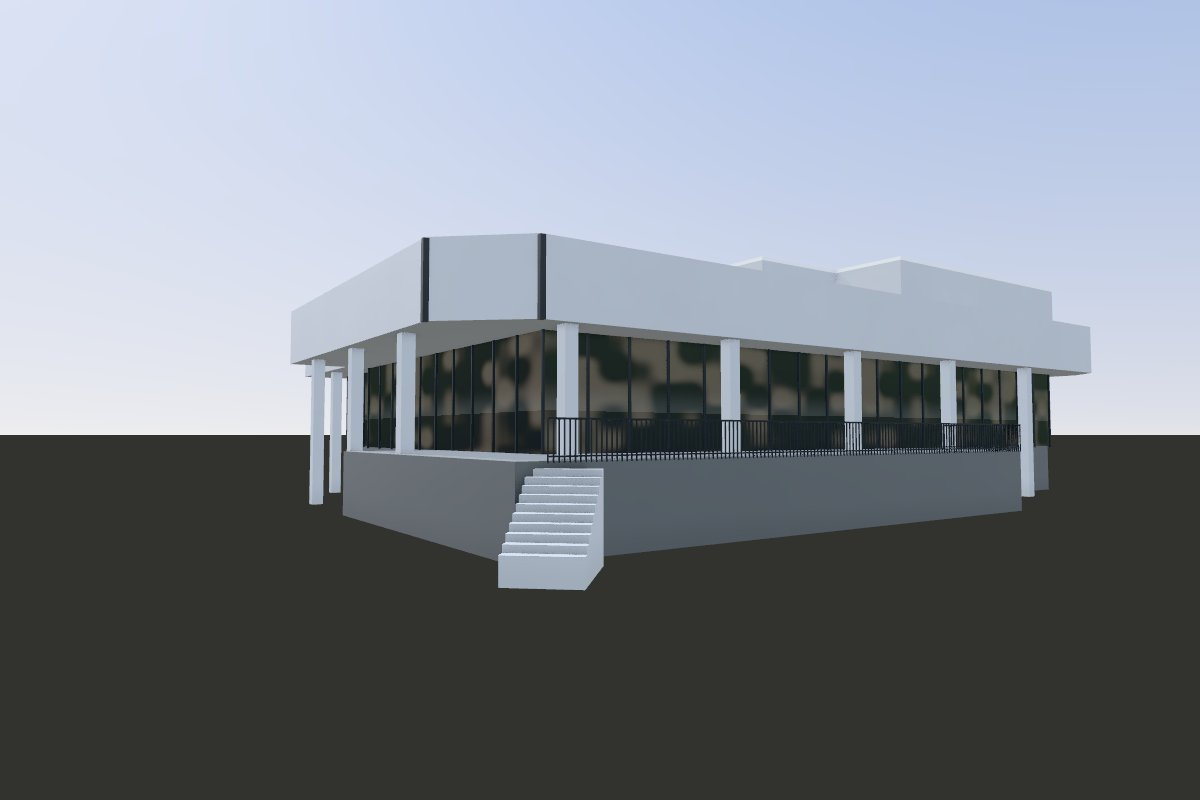
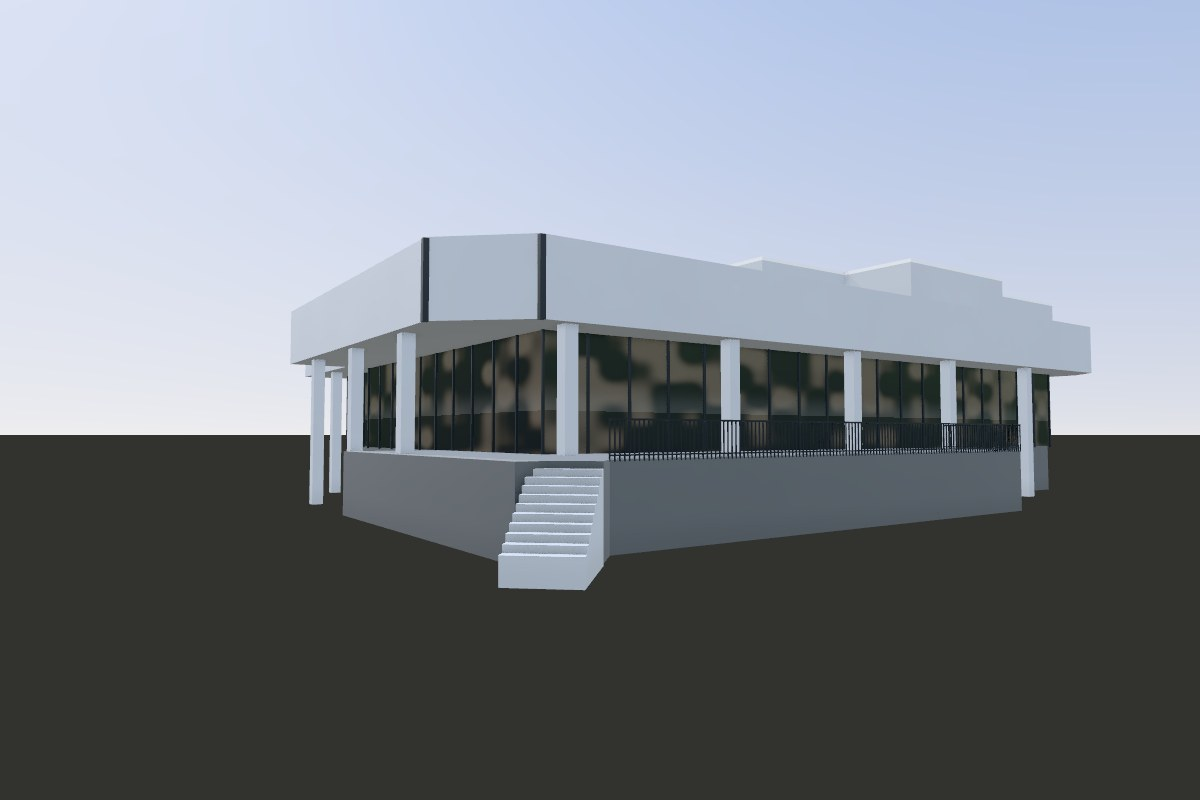
Security (409), review round 1: the roof blocks to the LiDAR, the deck and the steps that meet it, the card's words
- The west box's roof rises toward the north-east, from 51.7 m to 53.84 m,
  as the LiDAR's returns do (it was drawn flat at 53.88 m from p -13.9);
  the east block's south part starts at p 3.75 and its south-east end
  stands at 53.0 m.
- The deck runs out to the flight's last riser, and its railing starts at
  the flight's east side: the flight had moved 1.1 m at step 8 and the
  railing had not, so it ran into the flight's top.
- The card names the chamfer's width and the floor as estimated, and says
  that neither the 2024 LiDAR nor the 2023 aerial shows the deck, its
  railing or the steps: both see the paved court open there. The
  photograph, of October 2024, shows them; they are drawn from it.
- The CONTRACT's step 7 entry has its own numbers again, step 8's the
  door's move; the columns' spacing along the south-west end; the
  thresholds note's directions; the test's comment; SHARED_GROUND's
  comment names 409 and 421W, 4.7 m apart.
- 3,354 triangles, 5 draw calls; silhouette 0.777 in the model's box,
  luma 156 against 159; top view 89% of the cells within 0.5 m. The four
  pictures again.

Claude-Session: https://claude.ai/code/session_01WyPcwFTXkmVC7XB6LWPSiH

diff --git a/landmarks/security-409/parts/common.js b/landmarks/security-409/parts/common.js
@@ -56,7 +56,10 @@ export const ROOF = Y(51.13), PARAPET = { top: Y(51.5), thick: 0.3 };
  * its railing's top 1 m over it (q -15.6 to -16.9 from p -18.2 to 2.0), and a flight of 11 steps from the court
  * (43.4 m, the door's ground) up to the deck, its foot 1.7 m wide, rising along the chamfer's normal: the camera puts
  * the foot's ends at p -21.35, q -17.93 and p -19.84, q -18.66, partly within Architecture - West's outline in the
- * campus map (its north-east edge at p -20.3), so the flight is drawn 1.1 m further along the south-east face. */
+ * campus map (its north-east edge at p -20.3), so the flight is drawn 1.1 m further along the south-east face. There
+ * the flight's last riser (2.73 m up it) crosses the deck's edge at p -17.98 and ends 0.85 m short of it at its east
+ * end, p -17.04, q -16.85: the deck runs out to it, and the railing starts where the flight's east side meets the
+ * deck's edge, p -16.27. */
 export const SOFFIT = Y(49.1), FLOOR = Y(45.3), COURT = Y(43.4);
 export const STOREY = [[-15.2, -11.0], [15.85, -11.0], [15.85, 11.3], [-14.5, 11.3], [-14.5, 5.5], [-15.2, 5.5]];
 export const COLUMNS = [
@@ -66,16 +69,22 @@ export const COLUMNS = [
   [-18.3, 2.8], [-18.3, -2.5], [-18.3, -7.7],
 ];
 export const DECK = {
-  plan: [[-15.2, -11.0], [-15.2, -3.0], [-18.85, -3.0], [-18.85, -16.0], [3.0, -16.0], [3.0, -11.0]],
-  rail: [[-18.0, -16.0], [3.0, -16.0], [3.0, -12.85]],
+  plan: [[-15.2, -11.0], [-15.2, -3.0], [-18.85, -3.0], [-18.85, -16.0], [-17.98, -16.0], [-17.04, -16.85], [-16.27, -16.0],
+    [3.0, -16.0], [3.0, -11.0]],
+  rail: [[-16.27, -16.0], [3.0, -16.0], [3.0, -12.85]],
   stair: { foot: [-19.5, -18.3], dir: [0.67, 0.74], width: 1.7, run: 3.0, steps: 11 },
 };
 
-/** On the roof: a box at the west corner (p -13.9 to -9.8, q 9.6 to 13.0; 132 returns, p90 53.88 m) and a block
- * toward the east end (1,431 returns, p50 53.57, p90 53.77 m) along the south-east side from p 3 (q -11 to -7.5) and
- * from p -2 (q -7.5 to -4.5) to 16.6, and up to q 3 from p 8 (its returns on a 1 m grid). */
+/** On the roof (the returns over 51.65 m): a box at the west corner (p -15.6 to -9.75, q 9.6 to 13.0, the p0.5 and
+ * p99.5 of its 188 returns), its roof rising toward the north-east from 51.7 m at its south-west end to 53.84 m at
+ * p -11.8 (the returns' p50 in 0.5 m strips across it: 51.71, 51.87, 52.08, 52.44, 52.69, 52.98, 53.23, 53.53, 53.78)
+ * and flat beyond (53.82 to 53.86); and a block toward the east end (p50 53.57, p90 53.77 m) along the south-east
+ * side from p 3.75 (q -11 to -7.5; its returns' p0.5) and from p -2 (q -7.5 to -4.5) to 16.6, and up to q 3 from p 8,
+ * but for its south-east end (p 11.5 to 16.6, q -11 to -8.8), lower at 53.0 m (the p50s in 0.5 m strips 52.96 to
+ * 53.14 across it, 53.67 north-west of q -8.8, and 52.98 to 53.09 along it from p 11.5, 53.69 west of that). */
+export const BOX = { p: [-15.6, -9.75], q: [9.6, 13.0], low: Y(51.7), rise: -11.8, top: Y(53.84) };
 export const HIGH = [
-  { plan: [[-13.9, 9.6], [-9.8, 9.6], [-9.8, 13.0], [-13.9, 13.0]], top: Y(53.88) },
-  { plan: [[3.0, -11.0], [16.6, -11.0], [16.6, 3.0], [8.0, 3.0], [8.0, -4.5], [-2.0, -4.5], [-2.0, -7.5], [3.0, -7.5]],
-    top: Y(53.77) },
+  { plan: [[3.75, -11.0], [11.5, -11.0], [11.5, -8.8], [16.6, -8.8], [16.6, 3.0], [8.0, 3.0], [8.0, -4.5], [-2.0, -4.5],
+    [-2.0, -7.5], [3.75, -7.5]], top: Y(53.77) },
+  { plan: [[11.5, -11.0], [16.6, -11.0], [16.6, -8.8], [11.5, -8.8]], top: Y(53.0) },
 ];

diff --git a/landmarks/security-409/parts/block.js b/landmarks/security-409/parts/block.js
@@ -3,8 +3,8 @@
 // the roof. Sizes from common.js. No two faces of different materials lie in one plane (the landmark tests' faces
 // check): what meets another part ends inside it.
 import * as THREE from "three";
-import { COLUMNS, COURT, DECK, FLOOR, FOOT, HIGH, OUTLINE, PARAPET, ROOF, SOFFIT, STOREY, at, plan } from "./common.js";
-import { block, inset, prism } from "./shapes.js";
+import { BOX, COLUMNS, COURT, DECK, FLOOR, FOOT, HIGH, OUTLINE, PARAPET, ROOF, SOFFIT, STOREY, at, plan } from "./common.js";
+import { block, inset, prism, tris } from "./shapes.js";
 
 // The concrete pale grey, as the photograph shows it; the glazing dark, its frames and the railing near black; the
 // deck and the screen under it dark grey; the roofs light grey, as the aerial shows them.
@@ -72,8 +72,9 @@ export function columns(b) {
   for (const [p, q] of COLUMNS) bar(b, [p - 0.225, q], [p + 0.225, q], 0.45, FOOT - 0.05, SOFFIT + 0.3, CONCRETE);
 }
 
-/** The deck at the floor's height, solid and dark down to the walls' foot; its railing of thin bars 1 m tall along
- * its edge; and the flight of steps from the court up to its west corner, the last one under the deck's edge. */
+/** The deck at the floor's height, solid and dark down to the walls' foot, out to the flight's last riser; its railing
+ * of thin bars 1 m tall along its edge from the flight's east side; and the flight of steps from the court up to it
+ * near its west corner. */
 export function deck(b) {
   prism(b, plan(DECK.plan), FOOT, FLOOR, DARK);
   for (let i = 0; i + 1 < DECK.rail.length; i++) {
@@ -95,7 +96,18 @@ export function deck(b) {
   }
 }
 
-/** The box at the west corner and the block toward the east end, standing on the roof (their feet within its slab). */
+/** The box at the west corner, its roof rising toward the north-east and then flat, and the block toward the east end
+ * with its lower south-east end, standing on the roof (their feet within its slab). */
 export function high(b) {
+  const { p: [p0, p1], q: [q0, q1], low, rise, top } = BOX;
+  prism(b, plan([[p0, q0], [p1, q0], [p1, q1], [p0, q1]]), ROOF - 0.05, low, CONCRETE);
+  const P = (p, q, y) => { const [x, z] = at(p, q); return [x, y, z]; };
+  const out = (dp, dq) => ([x, z]) => { const [ox, oz] = at(dp, dq); return [x + ox, z + oz]; };  // outward from a face
+  tris(b, [[P(p0, q0, low), P(rise, q0, top), P(rise, q1, top)], [P(p0, q0, low), P(rise, q1, top), P(p0, q1, low)],
+    [P(rise, q0, top), P(p1, q0, top), P(p1, q1, top)], [P(rise, q0, top), P(p1, q1, top), P(rise, q1, top)]], ROOFS, "up");
+  for (const [q, dq] of [[q0, -1], [q1, 1]]) {
+    tris(b, [[P(p0, q, low), P(rise, q, top), P(p1, q, top)], [P(p0, q, low), P(p1, q, top), P(p1, q, low)]], CONCRETE, out(0, dq));
+  }
+  tris(b, [[P(p1, q0, low), P(p1, q0, top), P(p1, q1, top)], [P(p1, q0, low), P(p1, q1, top), P(p1, q1, low)]], CONCRETE, out(1, 0));
   for (const h of HIGH) block(b, plan(h.plan), ROOF - 0.05, h.top, CONCRETE, ROOFS);
 }

diff --git a/src/scene/landmarks.ts b/src/scene/landmarks.ts
@@ -136,8 +136,9 @@ export interface LandmarkHost {
  * West and Architecture - East (421W, 421E), and buildings 501 and 502 of the M&HS Building; Te Pūtahi
  * Tangata (201) stands 0.44 m from the Music School (250) and 0.57 m from the Humanities Building (206).
  * The nearest two landmarks further apart than this, Fine Arts Studio Blocks 431 and 433, stand 4.0 m
- * apart across the lane between them (the next, buildings 302 and 303S of the Science Centre, 5.6 m, and
- * the Humanities Building and Okareta (206, 215), 7.4 m): each of those can stand on the map's own ground
+ * apart across the lane between them (the next, Security and Architecture - West (409, 421W), 4.7 m,
+ * buildings 302 and 303S of the Science Centre, 5.6 m, and the Humanities Building and Okareta (206, 215),
+ * 7.4 m): each of those can stand on the map's own ground
  * without a step or an overlap between them that a camera could see.
  */
 export const SHARED_GROUND = 2;

diff --git a/e2e/landmark.spec.ts b/e2e/landmark.spec.ts
@@ -109,8 +109,8 @@ test("a measured massing is drawn only nearer than a landmark, in its block's co
 });
 
 test("while a building is open, a measured massing near it gives way to its block", async ({ page }) => {
-  // Building 401 stands beside 405, the measured massing nearest it since 409 became a landmark; 405 open is one of the
-  // views that must not change.
+  // Building 401 stands beside 405, the measured massing nearest it (their centres 40.7 m apart); 405 open is one of
+  // the views that must not change.
   test.skip(!MEASURED.some((m) => m.name === "measured/401"), "401 is not a measured massing");
   await open(page, `?building=405&${T}`);
   expect(await landmark(page, "measured/401")).toMatchObject({ form: "none", made: [] });

diff --git a/landmarks/security-409/docs/CONTRACT.md b/landmarks/security-409/docs/CONTRACT.md
@@ -26,7 +26,8 @@ The rules every part of this landmark keeps. The kit, the pipeline and the viewe
 
 ## Budget
 - Whole building ≤ 20k triangles and ≤ 6 draw calls (tier 3, a measured massing drawn in detail), merged by material.
-  Round 0: 232 triangles, 2 draw calls; steps 5 and 6: 3,448 triangles, 5 draw calls.
+  Round 0: 232 triangles, 2 draw calls; steps 5 and 6: 3,448 triangles, 5 draw calls; after the review of #168:
+  3,354 triangles, 5 draw calls.
 
 ## Rounds
 - Round 0 (2026-11-12, the lead alone): the block with its chamfers and the step at its west corner, the roof and
@@ -43,14 +44,23 @@ The rules every part of this landmark keeps. The kit, the pipeline and the viewe
   corner, all placed through the photograph's camera and estimated; the faces no photograph shows drawn as the ones
   it does. The light: the sun weak to the west-north-west and a strong sky, as the photograph's overcast, exposure
   0.95: luma 165 against 158. Silhouette IoU 0.745, 0.778 in the model's box.
-- Step 7 (2026-11-12): the door at the foot of the steps, on the court (43.4 m, 17 returns within 1 m), the frame's
-  thresholds raised 0.05 m with it (the frame unchanged), the camera fitted again with its ground (rms 0.76 px); the
-  flight of steps and the door 1.1 m along the south-east face from where the camera puts the flight's foot, clear of
-  Architecture - West's outline in the campus map. Top view: footprint IoU 0.937, 86% of 3,603 cells within 0.5 m
-  (p10/p50/p90 -0.95/-0.03/0.22: the model lower under the tree's crown over the north corner and a row of small units
-  on the roof), the highest point 10.49 m over the door's ground against 10.57 (p99.9 of the building's returns but
-  the crown's), block 409 94.8% under the model.
-- Step 8 (2026-11-12): on the site (`site: true`), its measured massing's data file gone; the roofs `roofPale`, light
+- Step 7 (2026-11-12): the door at the foot of the steps, on the court (43.6 m, 8 returns within 1 m), the frame's
+  thresholds lowered with it (the frame unchanged), the camera fitted again with its ground (rms 0.76 px). Top view:
+  footprint IoU 0.937, 86% of 3,603 cells within 0.5 m (p10/p50/p90 -0.95/-0.03/0.22: the model lower under the
+  tree's crown over the north corner and a row of small units on the roof), the highest point 10.29 m over the door's
+  ground against 10.37 (p99.9 of the building's returns but the crown's), block 409 94.8% under the model.
+- Step 8 (2026-11-12): the flight of steps and the door 1.1 m along the south-east face from where the camera puts the
+  flight's foot, clear of Architecture - West's outline in the campus map, the door then on the court at 43.4 m (17
+  returns within 1 m), the frame's thresholds raised 0.05 m with it; the highest point 10.49 m over the door's ground
+  against 10.57. On the site (`site: true`), its measured massing's data file gone; the roofs `roofPale`, light
   grey as the aerial shows them; the roof blocks' feet within the roof's slab, and the columns' and steps' feet under
   the deck's, where the landmark tests' faces check found them in one plane. Silhouette IoU 0.746, 0.779 in the
   model's box; luma 155 against 159. 3,448 triangles, 5 draw calls.
+- The review of #168 (2026-11-12): the roof blocks to the LiDAR (the west box's roof rising from 51.7 m to 53.84 m,
+  the east block's south part from p 3.75 and its south-east end at 53.0 m); the deck out to the flight's last riser
+  and its railing from the flight's east side; the card names the chamfer's width and the floor, and says that
+  neither the LiDAR nor the 2023 aerial shows the deck, its railing or the steps. Silhouette IoU 0.744, 0.777 in the
+  model's box; luma 156 against 159. Top view: footprint IoU 0.937, 89% of 3,603 cells within 0.5 m (p10/p50/p90
+  -0.61/-0.03/0.20: the model lower under the tree's crown along the north side and a row of small units on the
+  roof), the highest point 10.44 m over the door's ground against 10.57, block 409 94.8% under the model. 3,354
+  triangles, 5 draw calls.

diff --git a/landmarks/security-409/README.md b/landmarks/security-409/README.md
@@ -71,9 +71,10 @@ From the LiDAR:
   1.7 m; the north corner drawn square, its returns a tree's crown (54 to 58 m, uneven).
 - **The roof** at 51.13 m (p50 of the returns 4 m and more inside the faces) and the parapet's top at 51.5 m (the
   highest returns within 0.8 m of the faces, p50 51.42 to 51.49), 0.3 m thick.
-- **On the roof**: a box at the west corner (p -13.9 to -9.8, q 9.6 to 13.0) to 53.88 m (p90 of 132 returns) and a
-  block toward the east end (along the south-east side from p 3 and from p -2 to 16.6, and up to q 3 from p 8) to
-  53.77 m (p90 of 1,431 returns).
+- **On the roof**: a box at the west corner (p -15.6 to -9.75, q 9.6 to 13.0), its roof rising toward the north-east
+  from 51.7 m to 53.84 m at p -11.8 and flat beyond (the p50s of its returns in 0.5 m strips); and a block toward the
+  east end (along the south-east side from p 3.75 and from p -2 to 16.6, and up to q 3 from p 8) to 53.77 m (p90 of
+  1,431 returns), but for its south-east end (p 11.5 to 16.6, q -11 to -8.8), at 53.0 m.
 - **The walls' foot**, FOOT, 43.0 m: the ground along the walls lies from 43.3 m on the court to the south-east to
   46.5 m by the road to the north-west.
 
@@ -82,10 +83,12 @@ Estimated, with the photograph as a reference: the chamfer at the south corner, 
 joint at each end of the chamfer; the ground storey's glazing 1.85 m behind the south-east face (where the camera puts
 its head at the soffit) and, under the south corner, 3.65 m behind the south-west end, a porch; its frames 1.6 m apart;
 columns 0.45 m square under the band's edge, 0.55 m in, the two the photograph shows and the rest on a grid of 6.5 m
-from them; the floor and the deck at 45.3 m, at the camera's eye; the deck out to 3.15 m before the south-east face,
+from them, 5.2 to 5.3 m apart along the south-west end; the floor and the deck at 45.3 m, at the camera's eye; the deck out to 3.15 m before the south-east face,
 where the camera puts its railing's top 1 m over it, its railing of thin bars; and a flight of 11 steps from the court
 up to it along the chamfer's normal, its foot where the camera puts it but drawn 1.1 m further along the south-east
-face, clear of Architecture - West's outline. The faces no photograph shows (north-west and north-east) are drawn as
+face, clear of Architecture - West's outline. Neither the 2024 LiDAR nor the 2023 aerial shows the deck, its railing or
+the steps: both see the paved court open there, at 43.4 m, up to the south-east face (the photograph, taken later in
+2024, shows them; they are drawn from it). The faces no photograph shows (north-west and north-east) are drawn as
 the ones it does, the glazing 1.85 m in.
 
 ## The light
@@ -95,7 +98,7 @@ viewer's sun stands to the west-north-west (300 degrees round, 45 up), weak (1.5
 against 2.25), at an exposure of 0.95 (the config's `light`): over the model's screen box the luma (p50) 155 against
 the photograph's 159.
 
-## On the map (step 7)
+## On the map (steps 7 and 8)
 
 - **The door**: the campus map records no entrance in 409. The config's door is on the court at the foot of the steps
   up to the deck, p -19.5 and q -18.3 (in the view frame (18.92, -18.9)); the LiDAR's ground within 1 m, 17 returns,

diff --git a/README.md b/README.md
@@ -957,9 +957,9 @@ toward its east end. Its heights and plans come from the LiDAR but for the chamf
 underside, the glazing's place behind it, the columns, the deck, its railing and the steps are estimated with the
 photograph as a reference. One photograph from the court to its south, looking at the chamfered corner and its two
 faces; counted inside the rectangle the model fills on the screen, its silhouette has an IoU of 0.78 in it, where the
-trees round it leave little sky, and the brightness over it is within 4 of the photograph's. From above its outline
-covers the LiDAR's with an IoU of 0.94, and on 86% of the cells both cover it is within 0.5 m of the LiDAR's height,
-the rest mostly under a tree's crown over its north corner. What the photograph does not show is drawn as what it
+trees round it leave little sky, and the brightness over it is within 3 of the photograph's. From above its outline
+covers the LiDAR's with an IoU of 0.94, and on 89% of the cells both cover it is within 0.5 m of the LiDAR's height,
+the rest under a tree's crown along its north side and a row of small units on its roof, neither drawn. What the photograph does not show is drawn as what it
 does.
 
 | | |
@@ -1734,7 +1734,8 @@ If you represent the University and would like something changed or removed, ple
   campus map: the photographer stood under a crown or an overhang there, or the fit is that far off. The chamfer's
   width, the band's underside, the glazing behind it, the columns, the deck, its railing and the steps are estimated
   in the photograph, and the steps are drawn 1.1 m along the south-east face from where it puts their foot, clear of
-  that outline; the faces to the north-west and north-east, which no photograph shows, are drawn as the ones it does,
+  that outline; neither the LiDAR nor the 2023 aerial shows the deck, its railing or the steps (both see the paved
+  court open there), which are drawn from the photograph, taken later in 2024; the faces to the north-west and north-east, which no photograph shows, are drawn as the ones it does,
   and a tree's crown over its north corner and a row of small units on its roof are not drawn. Its entrance is not
   known from a record: its door is set at the foot of the steps. The map's ground there is 3.83 m under the LiDAR's,
   so the model stands that much lower than the real building, on the drawn ground at its door; under its walls the
